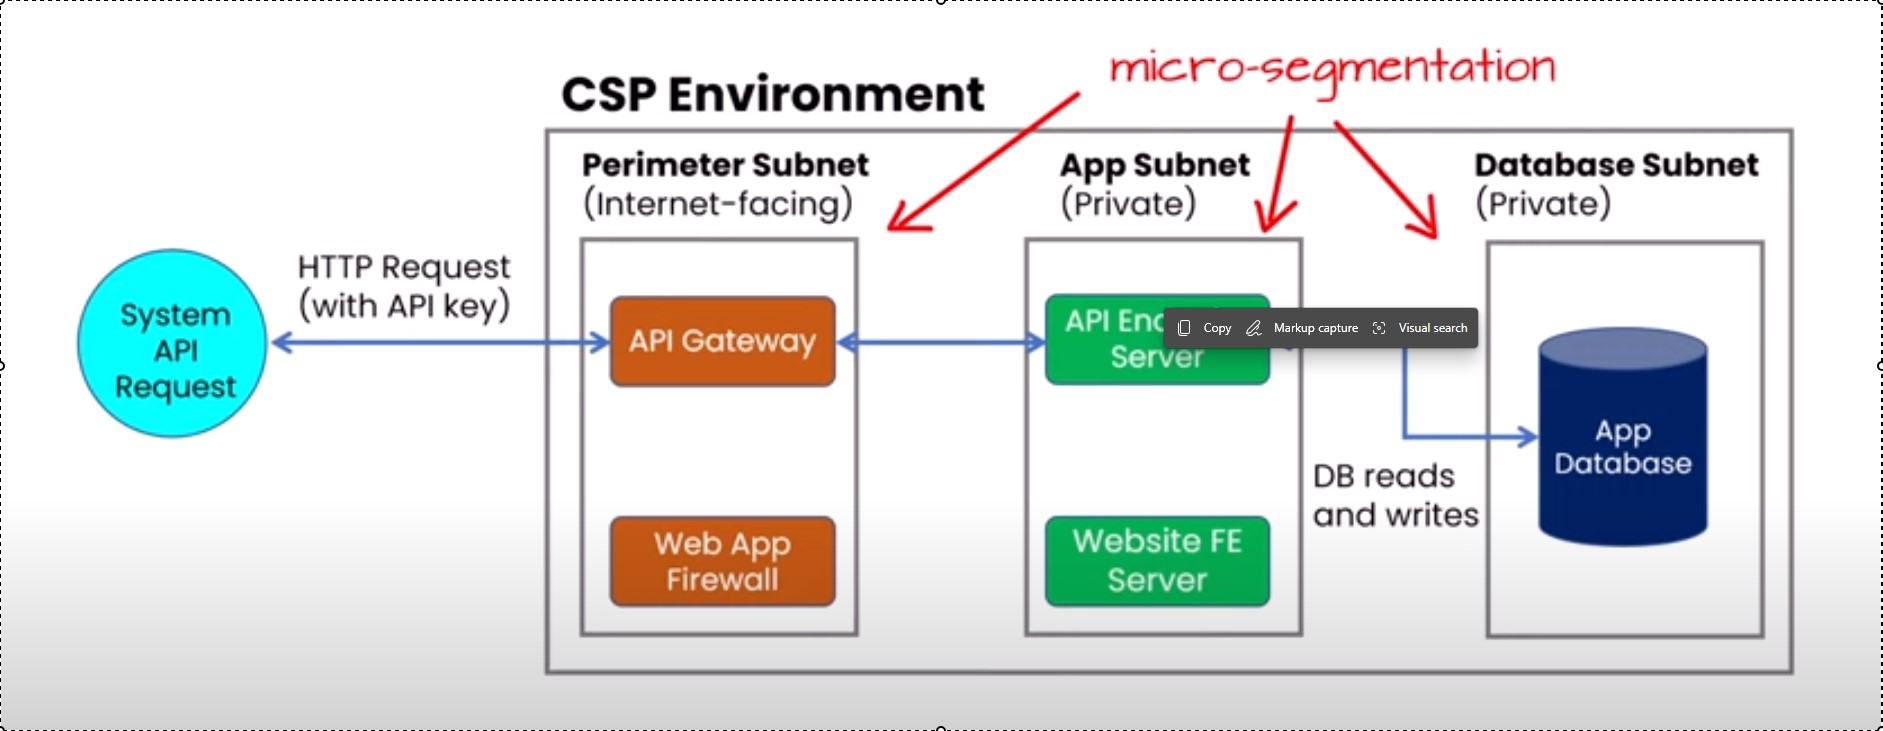
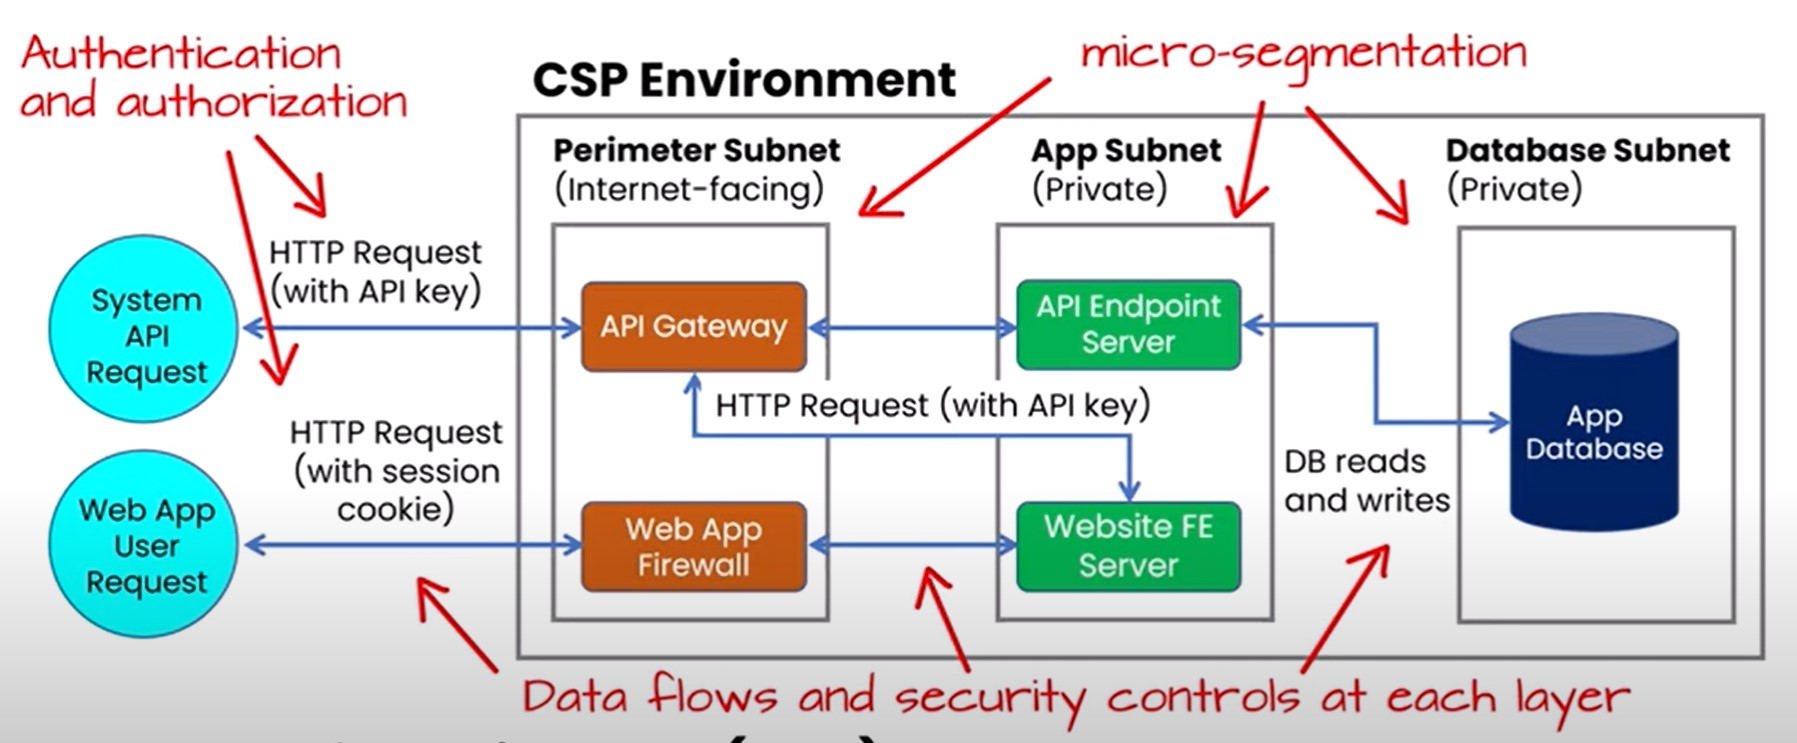
Data flows final

diff --git a/Data Flows.md b/Data Flows.md
@@ -3,3 +3,16 @@
 A ***Data Flow Diagram (DFD)*** is useful to gain visibility and ensure that adequate security controls are implemented
 
 ![Data Flow Diagram](Pictures/DataFlowDiagram.jpg)
+
+Map out infrastructure, data flows, security controls, and where they sit and how they interact to give you a more broad idea of what is happening and how to protect it.
+
+
+## Benefits
+
+Decreased development time and faster deployment of new system features. (and with reduced security risk)
+
+Visibility into data movement, critical for regulatory compliance, where data security is often mandated in law. 
+
+Some compliance frameworks require DFDs to capture specific information, such as geographic location of data flows or ownership of systems where data is flowing
+
+> ***Bottom Line:*** Creating the DFD can be both a risk assessment activity and a crucial compliance activity
